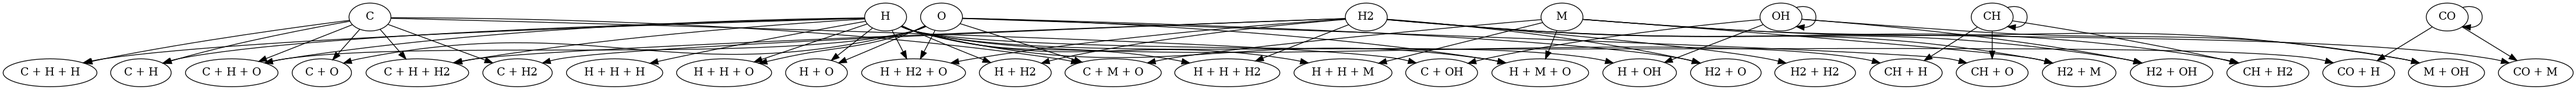
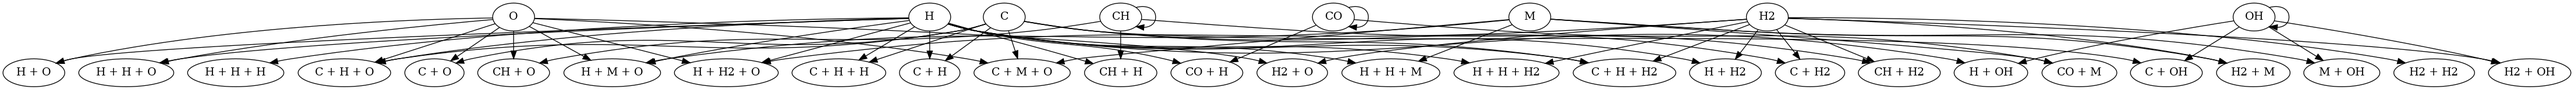
added stoichiometric matrix and complex composition matrix

diff --git a/src/reactions.py b/src/reactions.py
@@ -2,6 +2,7 @@
 # Need some kind of 'intelligent' reader, the idea is to use KROME format so we
 # read to find the 'format', then the lines after that have to follow this
 # format. Need a Reaction class and a Network class for sure
+import numpy as np
 from networkx.drawing.nx_pydot import to_pydot
 from typing import List
 import networkx as nx
@@ -79,7 +80,21 @@ class Network:
     # Create MultiDiGraphs for species and complexes using networkx
     self.species_graph = self.create_species_graph()
     self.complex_graph = self.create_complex_graph()
-    self.species_complex_graph = self.create_species_complex_graph()
+
+    # Create incidence matrices from graphs
+    self.species_incidence_matrix = nx.incidence_matrix(self.species_graph)
+    self.complex_incidence_matrix = nx.incidence_matrix(self.complex_graph)
+
+    # Complex composition matrix (m x c)
+    self.complex_composition_matrix = self.create_complex_composition_matrix()
+
+    # Stoichiometric matrix (m x r)
+    self.stoichiometric_matrix = self.complex_composition_matrix @ self.complex_incidence_matrix
+
+    # Potential graphs from defined incidence matrices
+    # self.complex_composition_graph = nx.from_numpy_matrix(
+    #     incidence_to_adjacency(self.complex_composition_matrix))
+    # self.complex_composition_graph = self.create_complex_composition_graph()
 
   def create_species_graph(self, temperature=None) -> nx.MultiDiGraph:
     # Create graph of species
@@ -105,17 +120,29 @@ class Network:
 
     return complex_graph
 
-  def create_species_complex_graph(self, temperature=None) -> nx.DiGraph:
-    # Create the graph relating complexes to their constituent species
-    species_complex_graph = nx.DiGraph()
-    for complex in self.complexes:
-      # Turn 'complex' into a list and check which species are in it
-      split_complex = [c.strip() for c in complex.split("+")]
-      for species in self.species:
+  def create_complex_composition_matrix(self) -> np.ndarray:
+    # Create matrix describing the composition of each complex 'c' based on its
+    # constituent metabolites 'm' (m x c)
+    complex_composition_matrix = np.zeros((len(self.species),
+                                           len(self.complexes)))
+    for i, species in enumerate(self.species):
+      for j, complex in enumerate(self.complexes):
+        split_complex = [c.strip() for c in complex.split("+")]
         if species in split_complex:
-          species_complex_graph.add_edge(species, complex)
+          complex_composition_matrix[i, j] = 1
 
-    return species_complex_graph
+    return complex_composition_matrix
+
+  def create_complex_composition_graph(self) -> nx.DiGraph:
+    # From the complex composition matrix, create a Directed Graph
+    # (species -> complex) for each species/complex in the network
+    complex_composition_graph = nx.DiGraph()
+    for i, species in enumerate(self.species):
+      for j, complex in enumerate(self.complexes):
+        if self.complex_composition_matrix[i, j] == 1:
+          complex_composition_graph.add_edge(species, complex)
+
+    return complex_composition_graph
 
   def update_species_graph(self, temperature: float):
     # Given a certain temperature, update the species Graph (weights)
@@ -125,10 +152,19 @@ class Network:
     # Given a certain temperature, update the complex Graph (weights)
     self.complex_graph = self.create_complex_graph(temperature=temperature)
 
-  def update_species_complex_graph(self, temperature: float):
-    # Given a certain temperature, update the species-complex Graph (weights)
-    self.species_complex_graph = self.create_species_complex_graph(
-        temperature=temperature)
+
+# Move to a different utils script for graphs
+def incidence_to_adjacency(incidence_matrix: np.ndarray,
+                           remove_self_loops=False) -> np.ndarray:
+  # From an incidence matrix, create and return the respective adjacency matrix
+  # Useful since networkx graphs can be created with adjacency matrices,
+  # but not incidence matrices
+  adjacency_matrix = (np.dot(incidence_matrix,
+                             incidence_matrix.T) > 0).astype(int)
+  if remove_self_loops:
+    np.fill_diagonal(adjacency_matrix, 0)
+
+  return adjacency_matrix
 
 
 # cls method for Network!
@@ -178,14 +214,27 @@ if __name__ == "__main__":
   krome_file = '../res/react-co-solar-umist12'
   network = read_krome_file(krome_file)
 
-  print("Species")
+  print(f"{len(network.species)} Species:")
   print(network.species)
-  print("Complexes")
+  print(f"{len(network.complexes)} Complexes:")
   print(network.complexes)
-  print("Rates")
-  for rxn in network.reactions:
-    print(rxn.rate)
+  # print("Rates")
+  # for rxn in network.reactions:
+  #   print(rxn.rate)
 
   to_pydot(network.species_graph).write_png("./species.png")
   to_pydot(network.complex_graph).write_png("./complex.png")
-  to_pydot(network.species_complex_graph).write_png("./species_complex.png")
+
+  # Check matrices
+  print("Adjacency matrices")
+  print(nx.to_numpy_array(network.species_graph).shape)
+  print(nx.to_numpy_array(network.complex_graph).shape)
+  print(incidence_to_adjacency(network.complex_composition_matrix).shape)
+
+  print("Incidence matrices")
+  print(network.species_incidence_matrix.shape)
+  print(network.complex_incidence_matrix.shape)
+  print(network.complex_composition_matrix.shape)
+
+  print("Stoichiometric matrix")
+  print(network.stoichiometric_matrix.shape)
